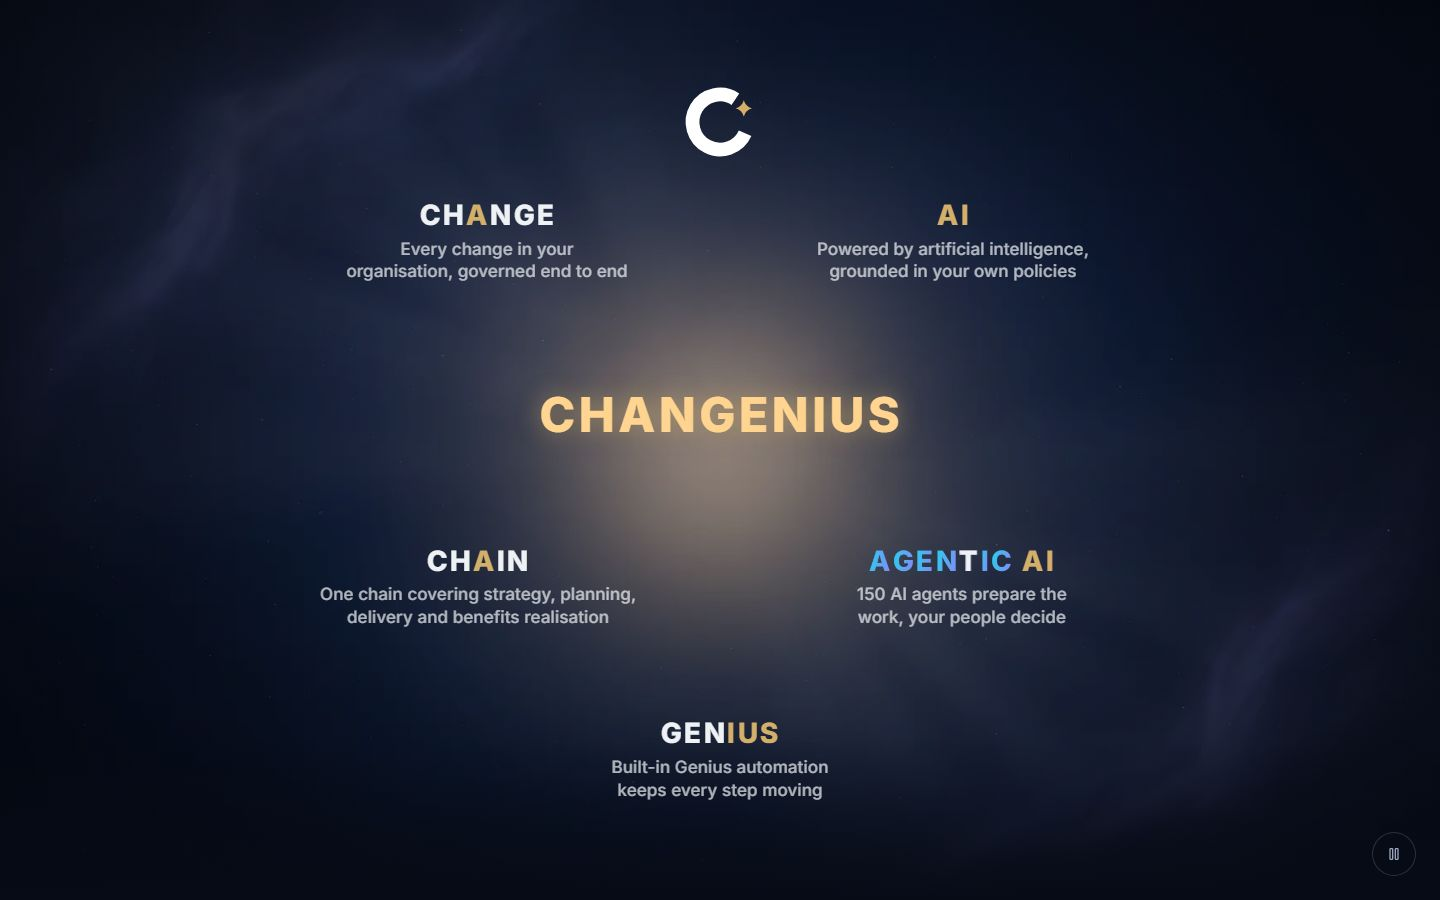
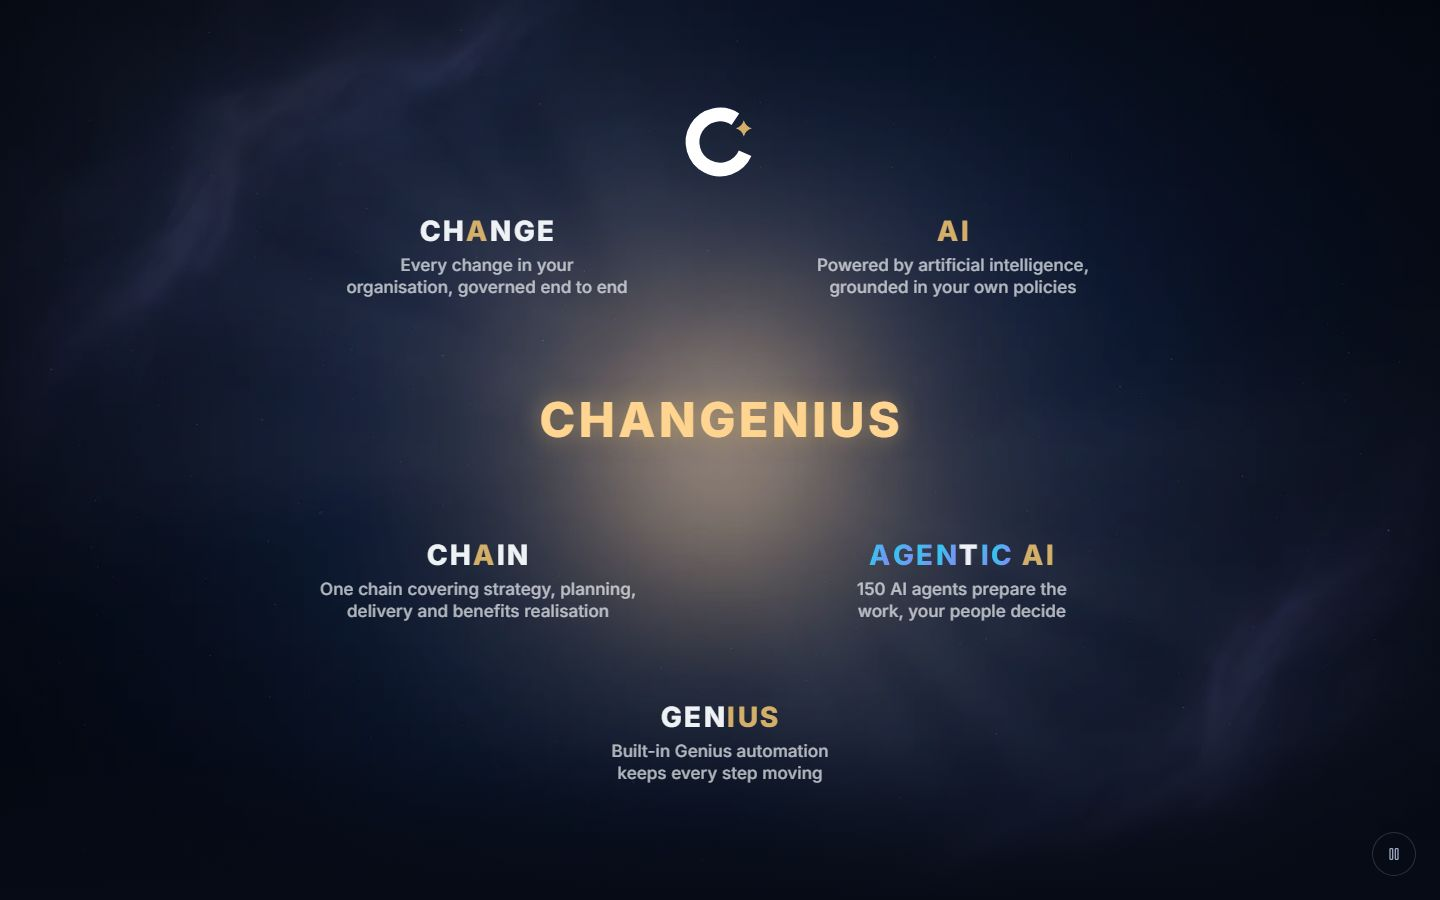
fix: hero show height follows large-viewport bands; label and copy shared with e2e
Choose the stage height from bands of 100lvh (read through a hidden probe)
and re-measure only when the width or that band changes, so a phone's
address bar can never trigger the restart. e2e covers a change within a
band (no restart) and a band crossing (re-measure). The accessible name now
covers all five captions and the closing line; captions, sub-line and label
live in one module the e2e imports. SIT: Fix 1, superseded pointers on the
earlier hero sections, hero shots retaken.

diff --git a/src/components/brand/changenius-wordmark-show.tsx b/src/components/brand/changenius-wordmark-show.tsx
@@ -1,8 +1,9 @@
 // Adapted from ppm-app's login wordmark show (origin/master@b3f65f48): larger sizes, sentence-case longer captions, website-only. The app's own copy is unchanged.
-// A resize re-measures (which restarts the loop) only when the width or the show's own height changes, so a phone's address bar showing or hiding does not restart the show.
+// A resize re-measures (which restarts the loop) only when the width or the large-viewport height band changes, so a phone's address bar showing or hiding does not restart the show.
 "use client";
 
 import { useEffect, useRef } from "react";
+import { ACT1_SUBLINE, CAPTIONS, CLOSING_LINE, SHOW_LABEL } from "./changenius-show-copy";
 import styles from "./changenius-wordmark-show.module.css";
 
 /**
@@ -31,9 +32,6 @@ import styles from "./changenius-wordmark-show.module.css";
  * measurement. Honours prefers-reduced-motion (static resolved wordmark).
  */
 
-const SHOW_LABEL =
-    "Changenius — every change governed end to end, with AI grounded in your own policies, AI agents that prepare the work for your people to decide, and one chain from strategy to benefit.";
-
 const LETTERS = ["C", "H", "A", "N", "G", "E", "N", "I", "U", "S"];
 
 type Piece = [string, number | null, string];
@@ -47,21 +45,30 @@ const W_AGENTIC: Piece[] = [["A", 2, "f"], ["G", 4, "f"], ["E", 5, "f"], ["N", 6
 const W_CHAIN: Piece[] = [["C", 0, "w"], ["H", 1, "w"], ["A", 2, "a"], ["I", 7, "w"], ["N", 3, "w"]];
 const W_GENIUS: Piece[] = [["G", 4, "w"], ["E", 5, "w"], ["N", 6, "w"], ["I", 7, "g"], ["U", 8, "g"], ["S", 9, "g"]];
 
-const CAPTION_CHANGE = "Every change in your organisation, governed end to end";
-const CAPTION_AI = "Powered by artificial intelligence, grounded in your own policies";
-const CAPTION_GENIUS = "Built-in Genius automation keeps every step moving";
-
 const WORDS: { pieces: Piece[]; script: string }[] = [
-    { pieces: W_CHANGE, script: CAPTION_CHANGE },
-    { pieces: W_AI, script: CAPTION_AI },
-    { pieces: W_AGENTIC, script: "150 AI agents prepare the work, your people decide" },
-    { pieces: W_CHAIN, script: "One chain covering strategy, planning, delivery and benefits realisation" },
-    { pieces: W_GENIUS, script: CAPTION_GENIUS },
+    { pieces: W_CHANGE, script: CAPTIONS.change },
+    { pieces: W_AI, script: CAPTIONS.ai },
+    { pieces: W_AGENTIC, script: CAPTIONS.agentic },
+    { pieces: W_CHAIN, script: CAPTIONS.chain },
+    { pieces: W_GENIUS, script: CAPTIONS.genius },
 ];
 
 const ORB_POS: [string, string][] = [["24%", "10%"], ["76%", "10%"], ["77%", "64%"], ["23%", "64%"], ["50%", "91%"]];
 
-const ACT1_STORIES = [CAPTION_CHANGE, CAPTION_AI, CAPTION_GENIUS];
+const ACT1_STORIES = [CAPTIONS.change, CAPTIONS.ai, CAPTIONS.genius];
+
+// [minimum large-viewport height, show height] in px. Sized from 100lvh, which a phone's
+// toolbar never changes; each band leaves room for the icon and padding above the show.
+const HEIGHT_BANDS: [number, number][] = [[920, 640], [730, 600], [680, 560], [0, 480]];
+
+function bandHeight(): number {
+    const probe = document.createElement("div");
+    probe.style.cssText = "position:fixed;top:0;left:0;width:0;height:100lvh;visibility:hidden;pointer-events:none";
+    document.body.appendChild(probe);
+    const lvh = probe.getBoundingClientRect().height || window.innerHeight;
+    probe.remove();
+    return HEIGHT_BANDS.find(([min]) => lvh >= min)![1];
+}
 
 function pieceClass(prefix: string, beat: number, kind: string): string {
     return styles[`${prefix}${beat}${kind}` as keyof typeof styles] as string;
@@ -137,15 +144,18 @@ export function ChangeniusWordmarkShow() {
         const root = rootRef.current;
         if (!root) return;
         let timer: ReturnType<typeof setTimeout> | undefined;
+        let band = bandHeight();
+        root.style.setProperty("--show-h", `${band}px`);
         const run = () => measure(root);
         document.fonts?.ready.then(run).catch(() => run());
         run();
         let lastWidth = window.innerWidth;
-        let lastHeight = root.offsetHeight;
         const onResize = () => {
-            if (window.innerWidth === lastWidth && root.offsetHeight === lastHeight) return;
+            const next = bandHeight();
+            if (window.innerWidth === lastWidth && next === band) return;
             lastWidth = window.innerWidth;
-            lastHeight = root.offsetHeight;
+            band = next;
+            root.style.setProperty("--show-h", `${band}px`);
             clearTimeout(timer);
             timer = setTimeout(run, 200);
         };
@@ -188,7 +198,7 @@ export function ChangeniusWordmarkShow() {
                         <span key={b} className={styles[`c1s${b}` as keyof typeof styles] as string}>{t}</span>
                     ))}
                     <span className={`${styles.c1hub} ${styles.sSub}`}>
-                        Governed change&nbsp;· Powered by AI&nbsp;· One chain from strategy to benefit
+                        {ACT1_SUBLINE}
                     </span>
                 </div>
             </div>
@@ -247,7 +257,7 @@ export function ChangeniusWordmarkShow() {
                     <span className={`${styles.v4w} ${styles.c4gw}`}>U</span>
                     <span className={`${styles.v4w} ${styles.c4gw}`}>S</span>
                 </div>
-                <div className={`${styles.v4Script} ${styles.c4scr}`}>The change is in us</div>
+                <div className={`${styles.v4Script} ${styles.c4scr}`}>{CLOSING_LINE}</div>
             </div>
         </div>
     );

diff --git a/e2e/hero.spec.ts b/e2e/hero.spec.ts
@@ -1,15 +1,7 @@
 import { expect, test, type Page } from "@playwright/test";
+import { ACT1_SUBLINE, CAPTIONS as CAPTION_TEXT, CLOSING_LINE, SHOW_LABEL as SHOW_NAME } from "../src/components/brand/changenius-show-copy";
 
-const SHOW_NAME =
-    "Changenius — every change governed end to end, with AI grounded in your own policies, AI agents that prepare the work for your people to decide, and one chain from strategy to benefit.";
-
-const CAPTIONS = [
-    "Every change in your organisation, governed end to end",
-    "Powered by artificial intelligence, grounded in your own policies",
-    "150 AI agents prepare the work, your people decide",
-    "One chain covering strategy, planning, delivery and benefits realisation",
-    "Built-in Genius automation keeps every step moving",
-];
+const CAPTIONS = Object.values(CAPTION_TEXT);
 
 const LOOP_MS = 147_200;
 
@@ -63,8 +55,8 @@ test("the hero is the enlarged wordmark show alone, at twice the tempo, with no 
 test("the captions carry the owner's wording, in larger sentence case that may wrap", async ({ page }) => {
     await page.goto("/");
     for (const caption of CAPTIONS) await expect(show(page).getByText(caption, { exact: true }).first()).toBeAttached();
-    await expect(show(page).getByText("Governed change · Powered by AI · One chain from strategy to benefit", { exact: true })).toBeAttached();
-    await expect(show(page).getByText("The change is in us", { exact: true })).toBeAttached();
+    await expect(show(page).getByText(ACT1_SUBLINE, { exact: true })).toBeAttached();
+    await expect(show(page).getByText(CLOSING_LINE, { exact: true })).toBeAttached();
     await expect(show(page).getByText(/Enterprise Change Management|All components linked/)).toHaveCount(0);
 
     await holdShowAt(page, 13.8 / 147.2);
@@ -93,6 +85,36 @@ test("a height-only resize (a phone's address bar) leaves the show running; a wi
     await page.setViewportSize({ width: size.width - 40, height: size.height - 60 });
     await page.waitForTimeout(600);
     expect(await showTime()).toBeLessThan(before);
+});
+
+test.describe("large-viewport height bands", () => {
+    test.use({ viewport: { width: 390, height: 800 } });
+
+    const showTime = (page: Page) =>
+        page.evaluate(() => Number(document.querySelector("[data-chainge-show]")!.getAnimations({ subtree: true })[0].currentTime));
+    const showHeight = (page: Page) => show(page).evaluate((el) => (el as HTMLElement).offsetHeight);
+
+    test("a small height change within a band keeps the show running at the same height", async ({ page }) => {
+        await page.goto("/");
+        await page.waitForTimeout(2_500);
+        const height = await showHeight(page);
+        const before = await showTime(page);
+        await page.setViewportSize({ width: 390, height: 740 });
+        await page.waitForTimeout(600);
+        expect(await showHeight(page)).toBe(height);
+        expect(await showTime(page)).toBeGreaterThan(before);
+    });
+
+    test("crossing into another band resizes the show and re-measures it", async ({ page }) => {
+        await page.goto("/");
+        await page.waitForTimeout(2_500);
+        const height = await showHeight(page);
+        const before = await showTime(page);
+        await page.setViewportSize({ width: 390, height: 700 });
+        await page.waitForTimeout(600);
+        expect(await showHeight(page)).toBeLessThan(height);
+        expect(await showTime(page)).toBeLessThan(before);
+    });
 });
 
 test("pause stops the wordmark show and the backdrop video, and play resumes them", async ({ page }) => {

diff --git a/src/components/brand/changenius-show-copy.ts b/src/components/brand/changenius-show-copy.ts
@@ -1,0 +1,15 @@
+export const CAPTIONS = {
+    change: "Every change in your organisation, governed end to end",
+    ai: "Powered by artificial intelligence, grounded in your own policies",
+    agentic: "150 AI agents prepare the work, your people decide",
+    chain: "One chain covering strategy, planning, delivery and benefits realisation",
+    genius: "Built-in Genius automation keeps every step moving",
+} as const;
+
+// The non-breaking space binds each "·" to the phrase before it, so a wrapped line never starts with a dot.
+export const ACT1_SUBLINE = "Governed change\u00a0· Powered by AI\u00a0· One chain from strategy to benefit";
+
+export const CLOSING_LINE = "The change is in us";
+
+export const SHOW_LABEL =
+    "Changenius: every change in your organisation governed end to end, powered by AI grounded in your own policies, with 150 AI agents preparing the work while your people decide, one chain from strategy through planning and delivery to benefits realisation, and built-in Genius automation keeping every step moving. The change is in us.";

diff --git a/src/components/brand/changenius-wordmark-show.module.css b/src/components/brand/changenius-wordmark-show.module.css
@@ -16,8 +16,10 @@
   --cap-sm: clamp(12px, 3.4vw, 17px);
   --show-h: 640px;
   position: relative; height: var(--show-h); user-select: none; }
-@media (max-height: 760px) { .show { --show-h: 560px; } }
-@media (max-height: 600px) { .show { --show-h: 480px; } }
+/* First paint only: the component then sets --show-h inline from the large-viewport (100lvh) band. */
+@media (max-height: 919px) { .show { --show-h: 600px; } }
+@media (max-height: 729px) { .show { --show-h: 560px; } }
+@media (max-height: 679px) { .show { --show-h: 480px; } }
 .show * { animation-duration: 294.4s; animation-iteration-count: infinite;
   animation-timing-function: cubic-bezier(0.45,0.05,0.55,0.95); }
 .ph { position: absolute; inset: 0; display: flex; flex-direction: column;

diff --git a/docs/sit/2026-11-11-landing-sit.md b/docs/sit/2026-11-11-landing-sit.md
@@ -5,6 +5,7 @@
 > **Superseded in part (later on 11 Nov 2026):** the planet hero, the header, the hero buttons and the module
 > commercials described below are gone. See [Hero swap and page restructure](#hero-swap-and-page-restructure-owner-decisions-11-nov-2026)
 > at the end. The screenshots in `2026-11-11-shots/` were all retaken for it.
+> Later still, the rotating statement was removed and the show enlarged and re-captioned: see [Hero enlargement](#hero-enlargement-owner-11-nov-2026).
 
 ## Result in one paragraph
 
@@ -64,6 +65,8 @@ Method: each text element was made transparent, the area under it was screenshot
 Three demo-tile readings at the very top of the screen came out as 1.0 because the fixed header was covering them. That is a flaw in how they were measured, not a contrast problem.
 
 ## Screenshots
+
+> Superseded for the hero shots (`01`, `02`, `03`, `12`, `14`, `15`) by [Hero enlargement](#hero-enlargement-owner-11-nov-2026), which retook them at four sizes; the table below describes the earlier hero.
 
 `docs/sit/2026-11-11-shots/`. Each file name starts with `desktop-` (1440×900) or `phone-` (390×844, Pixel 7). 2.0 MB in all.
 
@@ -157,6 +160,8 @@ Before: desktop medians 2.2–7.7, phone 2.0–4.1. One phone sample had a singl
 
 ## Hero swap and page restructure (owner decisions, 11 Nov 2026)
 
+> **Superseded for the hero by [Hero enlargement](#hero-enlargement-owner-11-nov-2026):** the rotating statement described here is removed, and the show is no longer a byte-identical copy of the app's (larger sizes, new captions). The rest of this section still holds.
+
 Tested at the commit that carries this section. Production builds with the assistant **on** (Turnstile test keys, app stub on 3199, server on 3200) and **off** (server on 3201).
 
 **What changed.**
@@ -195,11 +200,11 @@ Tested at the commit that carries this section. Production builds with the assis
 **What changed.**
 
 1. **Rotating statements removed.** `StatementRotator`, `HERO_STATEMENTS`, their test and e2e assertions, and the `statement-in` / `fade-only` CSS are deleted. The hero keeps the sr-only `h1`, the backdrop video and poster, the pause button (it still pauses the show and the video) and reduced motion.
-2. **The show is about 1.6× larger and centred** in a 896 px column (was 448 px): CHANGENIUS up to 88 px (was 56), the formed words and the name above them up to 64 px (was 38), the constellation's centre name 48 px (was 30), the orbit words 28 px (was 19), the closure 88 px. Every size is a fluid `clamp()` that shrinks with the screen width. Stage heights and positions grow with it: the stage is 640 px tall, 560 px when the window is 760 px tall or less, 480 px at 600 px or less. No `transform` or `zoom` is used (H2). The two fixed pixel nudges in the keyframes (the guest T, 12 px; one orbit piece, 8 px) became `em`, so they grow with the letters.
+2. **The show is about 1.6× larger and centred** in a 896 px column (was 448 px): CHANGENIUS up to 88 px (was 56), the formed words and the name above them up to 64 px (was 38), the constellation's centre name 48 px (was 30), the orbit words 28 px (was 19), the closure 88 px. Every size is a fluid `clamp()` that shrinks with the screen width. Stage heights and positions grow with it: the stage height comes from bands of the large-viewport height (`100lvh`; see Fix 1 below): 640 px from 920 px up, 600 px from 730, 560 px from 680, otherwise 480 px. No `transform` or `zoom` is used (H2). The two fixed pixel nudges in the keyframes (the guest T, 12 px; one orbit piece, 8 px) became `em`, so they grow with the letters.
 3. **Captions are larger and in sentence case**: 19 px on desktop down to 14 px on a phone (orbit captions and the sub-line 17 px down to 12 px), no uppercase, almost no letter-spacing, centred, allowed to wrap (balanced) within a maximum width.
-4. **New owner wording** for the five captions, the three hub-cascade lines and the sub-line ("Governed change · Powered by AI · One chain from strategy to benefit"). The closure stays "The change is in us". The show's accessible name is one new sentence.
+4. **New owner wording** for the five captions, the three hub-cascade lines and the sub-line ("Governed change · Powered by AI · One chain from strategy to benefit"). The closure stays "The change is in us". The show's accessible name covers all five captions and "The change is in us" in two sentences (Fix 1).
 5. **The copy now deliberately differs from the app's login show**; both files carry the new provenance note. The app's own copy is unchanged. The 2× tempo override stays.
-6. **Re-measure rule widened slightly**: a resize re-measures when the width **or the show's own height** changes. The show's height only changes at the 760 / 600 px window-height steps, which a phone's address bar does not cross (media queries use the fixed initial viewport), so the H3 fix still holds; without it, a desktop window dragged across a step would keep stale travel vectors.
+6. **Re-measure rule widened slightly**: a resize re-measures when the width **or the large-viewport height band** changes (Fix 1). A phone's address bar does not change `100lvh`, so the H3 fix still holds; a desktop window dragged into another band re-measures instead of keeping stale travel vectors.
 
 **Checks.**
 
@@ -226,7 +231,19 @@ Tested at the commit that carries this section. Production builds with the assis
 | H7 | At 360 px the closure CHANGE IN US first spanned 20–340 px, close to the 16 px gutter | Cosmetic | **Fixed**: the name's fluid size was reduced from 12vw to 11.5vw |
 | H8 | `next dev` / `next build` rewrote `tsconfig.json` (reformatting and adding a `.next-sit-wa` include) | Tooling | Reverted, not committed |
 
-**Not verified.** Contrast of the new caption sizes was not re-measured from screen pixels (the colours are the ones measured before; larger text only helps). No real phone, Safari or Firefox; the address-bar behaviour of the new height steps rests on the browsers' documented fixed initial viewport, not on a device. No screen-reader pass of the new accessible name.
+**Not verified.** Contrast of the new caption sizes was not re-measured from screen pixels (the colours are the ones measured before; larger text only helps). No real phone, Safari or Firefox; the address-bar behaviour of the height bands rests on `lvh` being defined as the viewport with the toolbar retracted, not on a device. No screen-reader pass of the new accessible name.
+
+### Fix 1 (review, 11 Nov 2026)
+
+| # | Review point | What changed |
+|---|---|---|
+| F1 | The `max-height: 760px / 600px` steps sat where a phone's address bar toggles, so the height-based re-measure could bring back the scroll restart (H3) | The stage height is now chosen in the component from **bands of the large-viewport height**: a hidden probe of `height: 100lvh` is read, the band table (920 → 640, 730 → 600, 680 → 560, else 480 px) picks the height, and it is set inline as `--show-h`. A resize re-measures only when the width or that band changes. `lvh` is the viewport with the toolbar retracted, so showing or hiding the address bar never changes it. The CSS `max-height` queries remain only for the first paint before the component runs. The bands are wide (190 px in the phone and laptop range) so ordinary window changes stay inside one |
+| F2 | e2e for the bands | New, desktop and phone projects, at 390×800: −60 px (to 740) keeps the same show height and the loop keeps running; 700 px crosses into the next band, the show gets shorter and the loop restarts (re-measured). The older test (−60 px from 900 and from the Pixel 7's 839) still passes |
+| F3 | Earlier hero sections read as current | One-line "superseded" pointers added to the report note at the top, the first Screenshots section and the Hero swap section |
+| F4 | Accessible name, and the e2e duplicating it | The name now covers all five captions plus "The change is in us" (two sentences). The captions, sub-line, closing line and name live in `src/components/brand/changenius-show-copy.ts`; the show and `e2e/hero.spec.ts` both import it |
+| F5 | Non-breaking spaces in the sub-line | **Kept, before each "·" only** (the space after is plain): they bind each dot to the phrase before it, so a wrapped line never starts with "·". On 360 and 390 px phones the line breaks after "Powered by AI ·" (`small-phone-16`, `phone-16`) |
+
+**Checks after Fix 1.** Typecheck 0 errors; lint 0 errors (same 2 warnings); Vitest 9 files / 83 tests; `npm run build` passes (`/` 23.6 kB, 126 kB First Load JS; built into an ignored dist folder because another session's dev server was running from this worktree on 3150); `npx playwright test` **52 passed** (dev server on its own dist folder for the same reason). Moving letters still start on their source letter (0.0 px off) at all four sizes. All 32 hero shots retaken from the production build and looked at: the stage is now 600 px at 1440×900 (198–798), 390×844 (158–758) and 360×740 (106–706), 560 px at 1280×720 (116–676); nothing off screen, no overlap; at 360×740 the GENIUS caption ends level with the pause button, about 55 px to its left, without touching it. Next again rewrote `tsconfig.json` during the runs; reverted, not committed.
 
 ## Not tested
 
